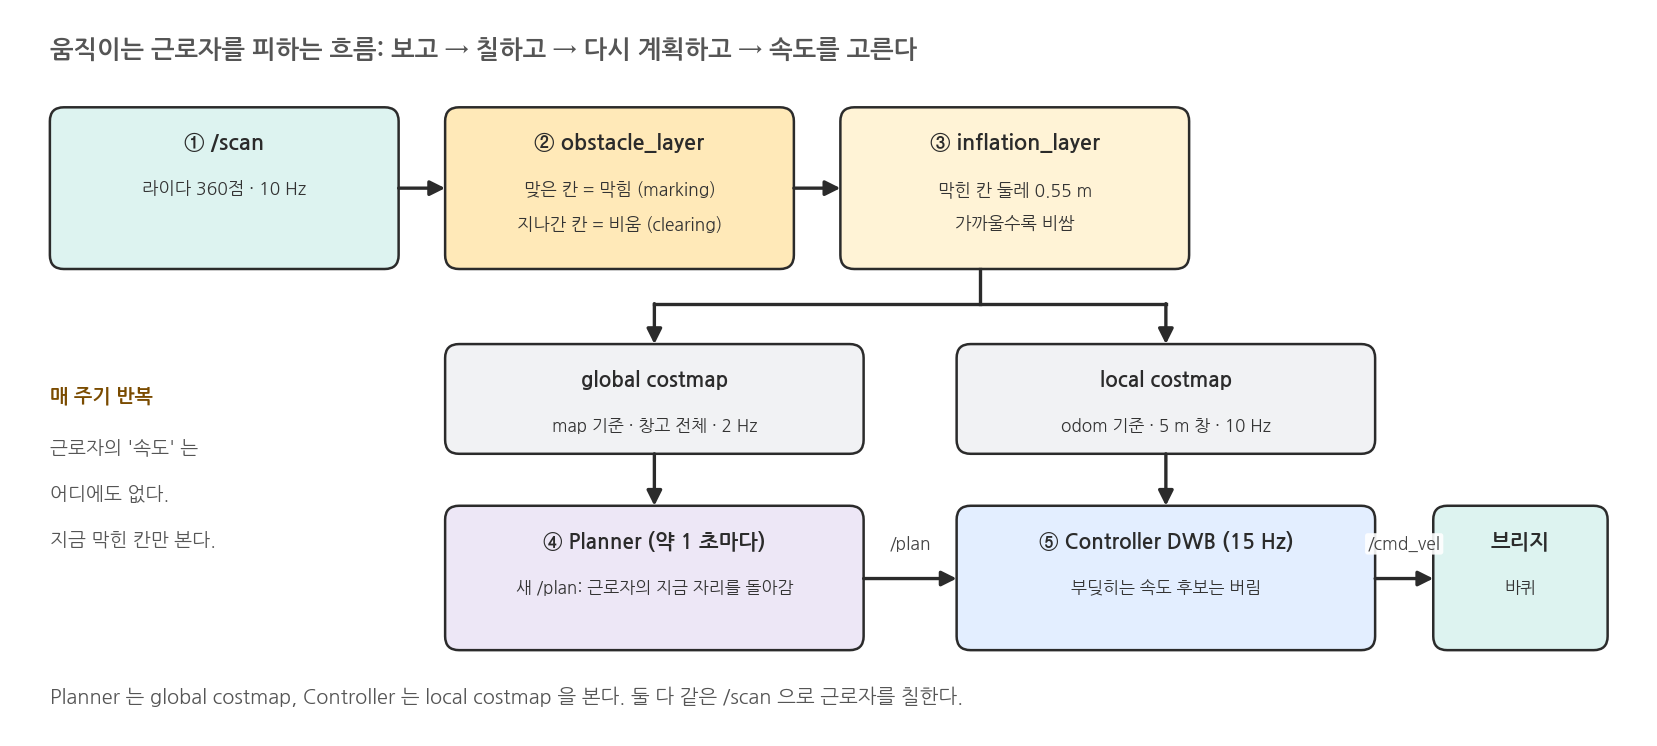
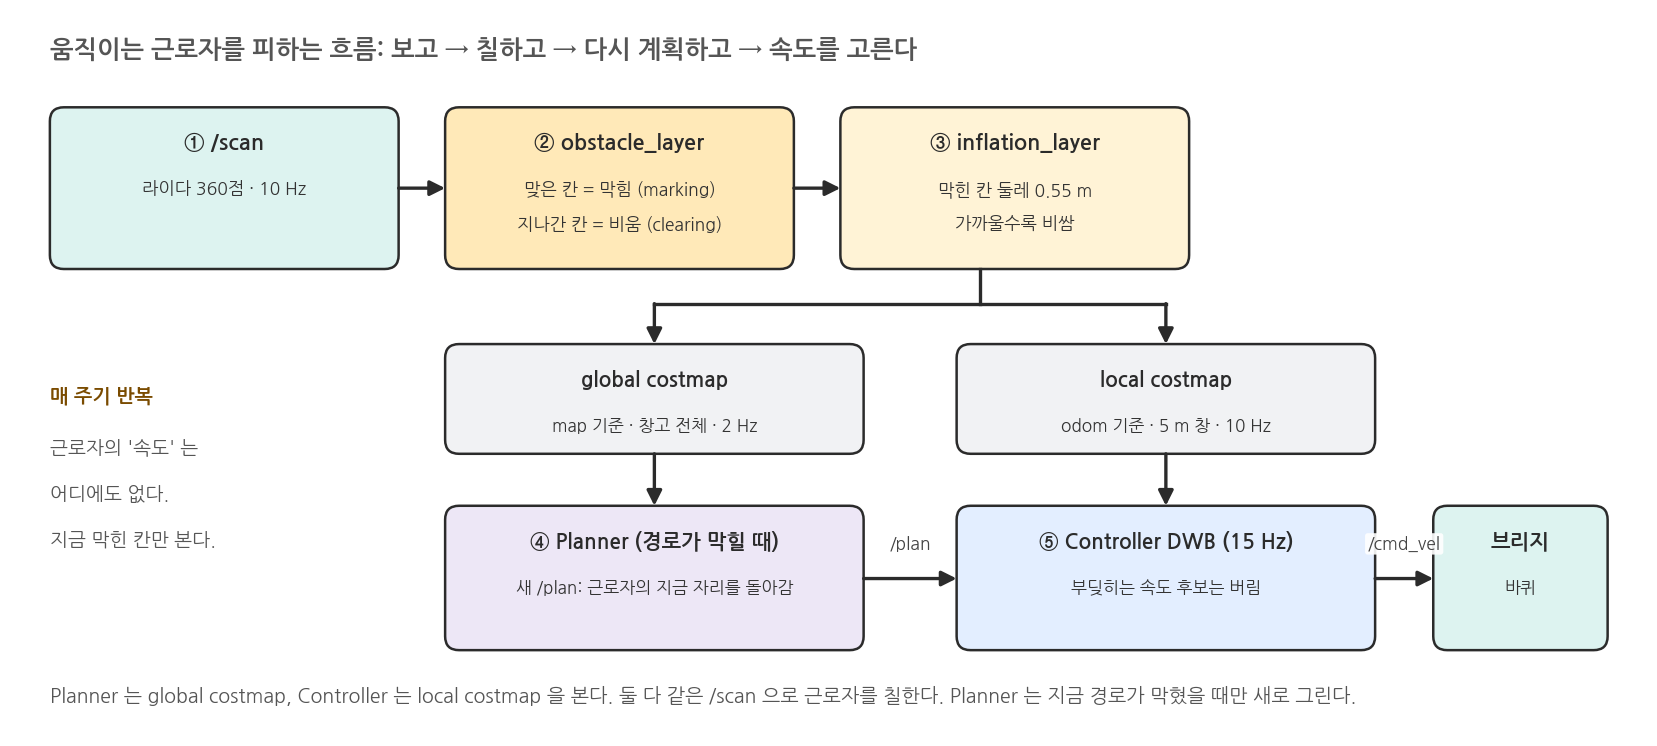
Nav2: replan only when the path is blocked (fixes left-right swings at the goal)
The default BT replans at 1 Hz; every new path resets the RotationShim's
goal-tolerance latch, and AMCL drifts a few cm while the robot turns in
place, so the robot left the 0.08 m tolerance and turned back toward the
goal point. bt_navigator now uses Nav2's
navigate_w_recovery_and_replanning_only_if_path_becomes_invalid.xml
(10 goals: 0 swings vs 2, longest settle 3.9 s vs 14.8 s; head-on passes
~4 cm closer).

Collision-avoidance page (lesson06) re-recorded with the new BT, and the
Navigation page speed graph redrawn from a new run.

Changed region(s): [[0.0308, 0.9249, 0.8002, 0.9558], [0.3078, 0.7091, 0.4925, 0.7399]]

diff --git a/docs/camp/draw_lesson06_figures.py b/docs/camp/draw_lesson06_figures.py
@@ -1,7 +1,8 @@
 """Figures for the lesson-06 Confluence page (Nav2 collision avoidance with a walking worker). Output: docs/camp/lesson06_*.png
 
-Run from the workspace root. Data: artifacts/dev/nav_crossing.pkl (close-up crossing run), nav_crossing_wide.pkl,
-nav_headon.pkl (docs/camp/nav_record.py) and screenshots in artifacts/dev/avoid_frames/.
+Run from the workspace root. Data: artifacts/dev/nav_crossing_v2.pkl, nav_headon_v2.pkl (docs/camp/nav_record.py, 2026-11-12, BT = replan only when
+the path becomes invalid), nav_crossing_wide.pkl (map for the scenario figure) and full-screen captures in
+artifacts/dev/avoid_frames_v2/ (MuJoCo | RViz close-up | RViz wide with the global costmap, one per sim second).
 """
 import pickle
 import sys
@@ -17,8 +18,10 @@ import numpy as np  # noqa: E402
 from PIL import Image  # noqa: E402
 
 RED, BLUE, GREEN, BROWN, GREY, ORANGE = "#C62828", "#1f4e79", "#2e7d32", "#7a4b00", "#9e9e9e", "#EF6C00"
-FR = Path("artifacts/dev/avoid_frames")
-PHASES = [(0.0, 6.0, "① 접근", "#E3F2FD"), (6.0, 8.8, "② 감지 · 우회", "#FFF3E0"), (8.8, 10.3, "③ 멈춤 · 대기", "#FFEBEE"), (10.3, 16.0, "④ 재개", "#E8F5E9")]
+FR = Path("artifacts/dev/avoid_frames_v2")
+MJ, RV, WIDE = (345, 200, 1195, 1000), (1830, 130, 2430, 1040), (2840, 380, 3440, 900)     # crop boxes
+PHASES = [(0.0, 6.6, "① 접근", "#E3F2FD"), (6.6, 8.9, "② 감지 · 우회", "#FFF3E0"), (8.9, 11.6, "③ 북쪽으로 · 제자리 회전", "#FFEBEE"), (11.6, 16.0, "④ 재개", "#E8F5E9")]
+PICKS = (6.0, 8.0, 10.0, 13.0)        # sim seconds of the four moments ①~④
 
 
 def load(name):
@@ -72,7 +75,7 @@ def flow():
     rbox(ax, 8.1, 2.4, 3.6, 0.95, "local costmap", ["odom 기준 · 5 m 창 · 10 Hz"], fc=C["grey"], tfs=10, fs=8.2)
     ax.plot([8.3, 8.3], [4.0, 3.7], color=INK, lw=1.6); ax.plot([5.5, 9.9], [3.7, 3.7], color=INK, lw=1.6)
     arrow(ax, (5.5, 3.7), (5.5, 3.35)); arrow(ax, (9.9, 3.7), (9.9, 3.35))
-    rbox(ax, 3.7, 0.7, 3.6, 1.25, "④ Planner (약 1 초마다)", ["새 /plan: 근로자의 지금 자리를 돌아감"], fc=C["purple"], tfs=10, fs=8.2)
+    rbox(ax, 3.7, 0.7, 3.6, 1.25, "④ Planner (경로가 막힐 때)", ["새 /plan: 근로자의 지금 자리를 돌아감"], fc=C["purple"], tfs=10, fs=8.2)
     rbox(ax, 8.1, 0.7, 3.6, 1.25, "⑤ Controller DWB (15 Hz)", ["부딪히는 속도 후보는 버림"], fc=C["blue"], tfs=10, fs=8.2)
     rbox(ax, 12.2, 0.7, 1.5, 1.25, "브리지", ["바퀴"], fc=C["teal"], tfs=10, fs=8.2)
     arrow(ax, (5.5, 2.4), (5.5, 1.95)); arrow(ax, (9.9, 2.4), (9.9, 1.95))
@@ -82,7 +85,7 @@ def flow():
     note(ax, 0.3, 2.45, "근로자의 '속도' 는", fs=9.2)
     note(ax, 0.3, 2.05, "어디에도 없다.", fs=9.2)
     note(ax, 0.3, 1.65, "지금 막힌 칸만 본다.", fs=9.2)
-    note(ax, 0.3, 0.3, "Planner 는 global costmap, Controller 는 local costmap 을 본다. 둘 다 같은 /scan 으로 근로자를 칠한다.", fs=9.6)
+    note(ax, 0.3, 0.3, "Planner 는 global costmap, Controller 는 local costmap 을 본다. 둘 다 같은 /scan 으로 근로자를 칠한다. Planner 는 지금 경로가 막혔을 때만 새로 그린다.", fs=9.4)
     save(fig, "lesson06_flow.png")
 
 
@@ -129,37 +132,37 @@ def rviz_displays():
 
 # ================================================================ 2. 실측
 def rviz_sequence():
-    frames = [("crossing_s09.png", "① 접근: 앞에 근로자(오른쪽 위 블롭) · 콘"), ("crossing_s13.png", "② 감지 · 우회: /plan 이 남쪽으로 휘고 로봇이 튼다"),
-              ("crossing_s15.png", "③ 멈춤 · 대기: 근로자가 막 앞을 지나간다"), ("crossing_s19.png", "④ 재개: 근로자 뒤로 지나 목표로")]
-    fig, axs = plt.subplots(2, 2, figsize=(14, 13.6), dpi=150)
-    for ax, (f, t) in zip(axs.flat, frames):
-        ax.imshow(Image.open(FR / f).crop((1470, 130, 2230, 866))); ax.axis("off"); ax.set_title(t, fontsize=12)
-    fig.suptitle("RViz2 (Global Costmap 끔): Local Costmap · Footprint · Global/Local Plan · DWB Trajectories · Lidar", fontsize=13, fontweight="bold", x=0.01, ha="left")
-    fig.tight_layout(rect=(0, 0, 1, 0.97))
+    frames = [("crossing_s06.png", "① 접근: 앞에 근로자 · 콘 (/plan 은 처음 그대로)"), ("crossing_s08.png", "② 감지 · 우회: 길이 막혀 /plan 이 남쪽으로 휜다"),
+              ("crossing_s10.png", "③ 근로자도 남쪽으로 → 북쪽 /plan, 제자리 회전"), ("crossing_s13.png", "④ 재개: 근로자 뒤(북쪽)로 지나 목표로")]
+    fig, axs = plt.subplots(1, 4, figsize=(14, 6.4), dpi=150)
+    for ax, (f, t) in zip(axs, frames):
+        ax.imshow(Image.open(FR / f).crop(RV)); ax.axis("off"); ax.set_title(t, fontsize=9.6)
+    fig.suptitle("RViz2 (Global Costmap 끔): Local Costmap · Footprint · Global/Local Plan · DWB Trajectories · Lidar", fontsize=12, fontweight="bold", x=0.01, ha="left")
+    fig.tight_layout(rect=(0, 0, 1, 0.95))
     save(fig, "lesson06_rviz_sequence.png")
 
 
 def mujoco_sequence():
-    frames = [("crossing_s09.png", "① 접근"), ("crossing_s13.png", "② 감지 · 우회"), ("crossing_s15.png", "③ 멈춤 · 대기"), ("crossing_s19.png", "④ 재개")]
-    fig, axs = plt.subplots(1, 4, figsize=(14, 4.4), dpi=150)
+    frames = [("crossing_s06.png", "① 접근"), ("crossing_s08.png", "② 감지 · 우회"), ("crossing_s10.png", "③ 북쪽으로 · 제자리 회전"), ("crossing_s13.png", "④ 재개")]
+    fig, axs = plt.subplots(1, 4, figsize=(14, 3.9), dpi=150)
     for ax, (f, t) in zip(axs, frames):
-        ax.imshow(Image.open(FR / f).crop((380, 330, 1000, 866))); ax.axis("off"); ax.set_title(t, fontsize=11)
+        ax.imshow(Image.open(FR / f).crop(MJ)); ax.axis("off"); ax.set_title(t, fontsize=11)
     fig.suptitle("같은 순간의 MuJoCo 창 (근로자가 오른쪽에서 통로를 가로지른다)", fontsize=12, fontweight="bold", x=0.01, ha="left")
     fig.tight_layout(rect=(0, 0, 1, 0.92))
     save(fig, "lesson06_mujoco_sequence.png")
 
 
 def wide_view():
-    fig, ax = plt.subplots(figsize=(14, 7.2), dpi=150)
-    ax.imshow(Image.open(FR / "wide_s10.png").crop((1470, 130, 2230, 866))); ax.axis("off")
-    ax.set_title("Global Costmap 을 켠 넓은 화면: 근로자 · 콘 · 선반 다리가 모두 막힘으로 칠해지고, 지나간 자리는 옅어진다", fontsize=11.5)
+    fig, ax = plt.subplots(figsize=(10, 9.4), dpi=150)
+    ax.imshow(Image.open(FR / "crossing_s10.png").crop(WIDE)); ax.axis("off")
+    ax.set_title("Global Costmap 을 켠 화면 (10 s): 근로자 · 콘 · 선반 다리가 모두 막힘으로 칠해진다\n초록 = 북쪽으로 바꾼 /plan", fontsize=11)
     fig.tight_layout()
     save(fig, "lesson06_rviz_wide.png")
 
 
 def local_snapshots():
-    d = load("nav_crossing")
-    picks = [4.5, 7.5, 9.0, 11.5]
+    d = load("nav_crossing_v2")
+    picks = PICKS
     fig, axs = plt.subplots(1, 4, figsize=(14, 4.4), dpi=150)
     for ax, ts, (a, b, name, _) in zip(axs, picks, [PHASES[0], PHASES[1], PHASES[2], PHASES[3]]):
         t = d["t0"] + ts
@@ -168,7 +171,7 @@ def local_snapshots():
         r = at(d, "tr", g["t"]); w = worker(d, g["t"])
         footprint(ax, r[1], r[2], r[3], fc="none", ec=RED, lw=1.8)
         ax.add_patch(Circle(w, 0.22, fc="none", ec=ORANGE, lw=2.0, ls="--", zorder=6))
-        pl = min(d["plans"], key=lambda p: abs(p["t"] - g["t"]))
+        pl = [p for p in d["plans"] if p["t"] <= g["t"]][-1]          # the /plan in force at that moment
         ax.plot(pl["xy"][:, 0], pl["xy"][:, 1], color="#2E7D32", lw=1.8)
         lp = min(d["local_plans"], key=lambda p: abs(p["t"] - g["t"]))
         if len(lp["xy"]):
@@ -183,14 +186,15 @@ def local_snapshots():
 
 
 def timeline():
-    d = load("nav_crossing")
+    d = load("nav_crossing_v2")
     t0 = d["t0"]
     tr, od = d["tr"], d["od"]
     m = (tr[:, 0] >= t0 + 0.1) & (tr[:, 0] <= t0 + 16)
     t = tr[m, 0] - t0
     dist = np.array([np.hypot(*(r[1:3] - worker(d, r[0]))) for r in tr[m]])
     mo = (od[:, 0] >= t0 - 0.5) & (od[:, 0] <= t0 + 16)
-    dev = np.array([[p["t"] - t0, p["xy"][:, 1].min()] for p in d["plans"] if p["t"] - t0 <= 16])
+    dev = np.array([[p["t"] - t0, p["xy"][np.argmax(abs(p["xy"][:, 1])), 1]] for p in d["plans"] if p["t"] - t0 <= 16])
+    dev = np.vstack([dev, [16, dev[-1, 1]]])
     fig, axs = plt.subplots(3, 1, figsize=(14, 7.6), dpi=150, sharex=True)
     for ax in axs:
         for a, b, name, col in PHASES:
@@ -203,16 +207,19 @@ def timeline():
     i = np.argmin(dist); axs[0].annotate(f"최소 {dist[i]:.2f} m", (t[i], dist[i]), xytext=(t[i] + 1.2, dist[i] + 0.9), fontsize=9.5, arrowprops=dict(arrowstyle="-|>"))
     axs[1].plot(od[mo, 0] - t0, od[mo, 4], color=BLUE, lw=1.8, label="v [m/s]"); axs[1].plot(od[mo, 0] - t0, od[mo, 5], color=BROWN, lw=1.4, label="w [rad/s]")
     axs[1].set_ylabel("/odom 속도"); axs[1].legend(loc="lower left", fontsize=9)
-    axs[2].step(dev[:, 0], dev[:, 1], where="post", color=GREEN, lw=2); axs[2].set_ylabel("/plan 의 최소 y [m]")
+    axs[2].step(dev[:, 0], dev[:, 1], where="post", color=GREEN, lw=2); axs[2].set_ylabel("/plan 이 휜 y [m]")
+    axs[2].plot(dev[:-1, 0], dev[:-1, 1], "o", color=GREEN, ms=6); axs[2].set_ylim(-1.2, 0.8)
+    axs[1].text(9.1, 0.42, "v = 0, w = 0.56: 제자리 회전", fontsize=9)
     axs[2].set_xlabel("목표를 보낸 뒤 시뮬레이션 시각 [s]")
-    axs[2].text(6.8, -0.85, "근로자를 남쪽으로 돌아가려다", fontsize=9); axs[2].text(9.0, -0.35, "근로자도 남쪽으로 → 길이 막혀 대기", fontsize=9)
+    axs[2].text(0.3, 0.25, "점 = 새 /plan (0 s 다음은 길이 막힌 6.6 ~ 8.7 s 에만)", fontsize=9)
+    axs[2].text(4.2, -0.95, "근로자를 남쪽으로 돌아가려다", fontsize=9); axs[2].text(9.0, 0.45, "근로자도 남쪽으로 → 북쪽 경로로 바꿈", fontsize=9)
     fig.suptitle("실측 타임라인 (crossing): 거리 · 속도 · 경로가 휘는 정도", fontsize=12, fontweight="bold", x=0.01, ha="left")
     fig.tight_layout(rect=(0, 0, 1, 0.96))
     save(fig, "lesson06_timeline.png")
 
 
 def paths():
-    d = load("nav_crossing")
+    d = load("nav_crossing_v2")
     t0 = d["t0"]
     fig, ax = plt.subplots(figsize=(14, 6.6), dpi=150)
     show_cost(ax, min(d["global_series"], key=lambda g: abs(g["t"] - t0)))     # before the worker reaches the aisle
@@ -220,28 +227,27 @@ def paths():
     for p in d["plans"]:
         s = p["t"] - t0
         if 5.5 <= s <= 12:
-            ax.plot(p["xy"][:, 0], p["xy"][:, 1], color=cm((s - 5.5) / 6.5), lw=1.2, alpha=0.9)
+            ax.plot(p["xy"][:, 0], p["xy"][:, 1], color=cm((s - 5.5) / 6.5), lw=1.8, alpha=0.95, label=f"/plan {s:.1f} s")
     tr = d["tr"]; m = (tr[:, 0] >= t0) & (tr[:, 0] <= t0 + 30)
     ax.plot(tr[m, 1], tr[m, 2], color=RED, lw=2.4, label="로봇이 실제로 간 길")
     ma = (d["at"] >= t0) & (d["at"] <= t0 + 14)
     ax.plot(d["ap"][ma, 0], d["ap"][ma, 1], color=ORANGE, lw=2.4, ls="--", label="근로자 (0 ~ 14 s)")
-    for k, s in enumerate((4.5, 7.5, 9.0, 11.5)):
+    for k, s in enumerate(PICKS):
         r = at(d, "tr", t0 + s); w = worker(d, t0 + s); tag = "①②③④"[k]
         footprint(ax, r[1], r[2], r[3], fc="none", ec=RED, lw=1.0)
         ax.add_patch(Circle(w, 0.13, fc=ORANGE, ec="white", alpha=0.9, zorder=6)); ax.text(w[0] + 0.2, w[1] - 0.08, f"{tag} {s:.1f} s", fontsize=9, color=BROWN, zorder=7)
     ax.set_xlim(-0.8, 6.8); ax.set_ylim(-3.2, 3.2)
-    sm = plt.cm.ScalarMappable(cmap=cm, norm=plt.Normalize(5.5, 12)); cb = fig.colorbar(sm, ax=ax, fraction=0.025, pad=0.01); cb.set_label("/plan 시각 [s]")
     ax.legend(loc="upper left", fontsize=9)
-    ax.set_title("위에서 본 궤적: /plan 은 근로자의 '지금' 자리를 피해 매번 새로 그려진다 (색 = 시각, 빨간 사각형 = ①~④ 시각의 로봇)", fontsize=11)
+    ax.set_title("위에서 본 궤적: /plan 은 길이 막힐 때만 근로자의 '지금' 자리를 피해 새로 그려진다 (6.6 ~ 8.7 s 에 4 번, 빨간 사각형 = ①~④ 시각의 로봇)", fontsize=11)
     fig.tight_layout()
     save(fig, "lesson06_paths.png")
 
 
 def headon():
-    d = load("nav_headon")
+    d = load("nav_headon_v2")
     t0 = d["t0"]
     tr = d["tr"]
-    m = (tr[:, 0] >= t0 - 0.5) & (tr[:, 0] <= t0 + 14)
+    m = (tr[:, 0] >= t0 + 0.3) & (tr[:, 0] <= t0 + 14)        # from 0.3 s: the worker is teleported to its start at 0 s
     t = tr[m, 0] - t0
     dist = np.array([np.hypot(*(r[1:3] - worker(d, r[0]))) for r in tr[m]])
     fig = plt.figure(figsize=(14, 5.2), dpi=150)
@@ -265,8 +271,8 @@ def headon():
 
 def headon_mujoco():
     fig, axs = plt.subplots(1, 3, figsize=(14, 4.6), dpi=150)
-    for ax, f, t in zip(axs, ("headon_s08.png", "headon_s09.png", "headon_s10.png"), ("다가온다", "겹친다 (충돌)", "지나간 뒤 비켜 선 로봇")):
-        ax.imshow(Image.open(FR / f).crop((380, 330, 1000, 866))); ax.axis("off"); ax.set_title(t, fontsize=11)
+    for ax, f, t in zip(axs, ("headon_s07.png", "headon_s08.png", "headon_s11.png"), ("다가온다 (7 s)", "겹친다 (8 s, 충돌)", "지나간 뒤 비켜 선 로봇 (11 s)")):
+        ax.imshow(Image.open(FR / f).crop(MJ)); ax.axis("off"); ax.set_title(t, fontsize=11)
     fig.suptitle("같은 순간의 MuJoCo 창 (headon)", fontsize=12, fontweight="bold", x=0.01, ha="left")
     fig.tight_layout(rect=(0, 0, 1, 0.92))
     save(fig, "lesson06_headon_mujoco.png")
@@ -277,7 +283,7 @@ def why_late():
     note(ax, 0.3, 4.5, "왜 마주 오는 사람은 늦게 피하나: Nav2 기본 구성은 '지금 막힌 칸' 만 본다", bold=True, fs=12)
     tiles(ax, [("속도 예측 없음", ["costmap 에는 위치만 있고 속도가 없다", "Planner 는 사람이 '지금' 있는 자리를 피한다", "사람이 다가오면 그 자리가 계속 다가온다"], C["red"]),
                ("가까워져야 반응", ["DWB 는 1.7 s 앞만 굴려 본다 (0.5 m 남짓)", "inflation 0.55 m 안에 들어와야 비싸진다", "마주 오면 1.5 m 에서 반응 → 이미 늦음"], C["orange"]),
-               ("가로지르면 괜찮았다", ["사람이 옆으로 빠져 나가 자리가 비워진다", "로봇은 멈춰 기다렸다가 뒤로 지나감", "최소 거리 1.16 m"], C["green"])],
+               ("가로지르면 괜찮았다", ["사람이 옆으로 빠져 나가 자리가 비워진다", "로봇은 제자리에서 돌아 근로자 뒤로 지나감", "최소 거리 1.00 m"], C["green"])],
           cols=3, y_top=3.9, gap=0.3, h=2.1, tfs=11, fs=8.8)
     note(ax, 0.3, 1.2, "보완: 속도 낮추기 · inflation 키우기 · Collision Monitor (가까우면 강제 감속/정지) · 사람 추적 + 예측 레이어 · MPPI 컨트롤러.", fs=9.6)
     note(ax, 0.3, 0.6, "실제 현장 로봇은 여기에 안전 인증 센서(안전 스캐너)의 보호 영역을 따로 둔다.", fs=9.6)
@@ -294,7 +300,7 @@ def params():
                ("controller (DWB)", ["controller_frequency: 15.0", "sim_time: 1.7", "ObstacleFootprint critic", "max_vel_x: 0.3"], C["blue"])],
           cols=4, y_top=4.1, gap=0.25, h=2.55, tfs=10.8, fs=8.5)
     note(ax, 0.3, 0.9, "global_costmap 도 같은 obstacle_layer 를 가진다 → Planner 가 근로자를 돌아가는 경로를 그릴 수 있다.", fs=9.6)
-    note(ax, 0.3, 0.4, "파일: src/mobile_openarm_navigation/config/nav2.yaml · 표시: config/navigation.rviz", fs=9.6)
+    note(ax, 0.3, 0.4, "bt_navigator: 경로가 막힐 때만 다시 계획 (navigation.launch.py 가 BT 파일을 고른다) · 표시: config/navigation.rviz", fs=9.6)
     save(fig, "lesson06_params.png")
 
 

diff --git a/docs/camp/draw_lesson05_figures.py b/docs/camp/draw_lesson05_figures.py
@@ -297,11 +297,13 @@ def local_costmap():
 
 
 def speed():
-    # re-recorded 2026-10-02 with the RotationShim controller (goal 1.2 -3.6 0, then /goal_pose (0.02, 0.02, 0) = RViz 2D Goal Pose)
-    d = pickle.load(open("artifacts/dev/nav_run_shim.pkl", "rb"))
+    # re-recorded 2026-11-12: RotationShim + BT that replans only when the path is blocked (goal 1.2 -3.6 0, then
+    # /goal_pose (0.02, 0.02, 0) = RViz 2D Goal Pose). The 2026-10-02 run (nav_run_shim.pkl, 1 Hz replanning) swung left-right at the 2nd goal.
+    d = pickle.load(open("artifacts/dev/nav_run_bt2.pkl", "rb"))
     od = np.array(d["odom"]); segs = segments(d)
     t0 = segs[0][0]["t"] - 1
-    m = (od[:, 0] >= t0) & (od[:, 0] <= segs[-1][-1]["t"] + 5)
+    moving = od[(abs(od[:, 4]) > 0.01) | (abs(od[:, 5]) > 0.01), 0]
+    m = (od[:, 0] >= t0) & (od[:, 0] <= moving[-1] + 3)          # until the robot stops at the 2nd goal (one /plan per goal now)
     fig, ax = plt.subplots(figsize=(14, 3.8), dpi=150)
     ax.plot(od[m, 0] - t0, od[m, 4], color=BLUE, lw=1.6, label="v  (/odom linear.x) [m/s]")
     ax.plot(od[m, 0] - t0, od[m, 5], color=BROWN, lw=1.2, alpha=0.8, label="w  (/odom angular.z) [rad/s]")
@@ -311,7 +313,7 @@ def speed():
         ax.axvline(s[0]["t"] - t0, color=GREEN, lw=1.2, ls="--")
     ax.set_xlabel("시뮬레이션 시각 [s]"); ax.grid(alpha=0.3); ax.legend(loc="lower center", bbox_to_anchor=(0.45, 0.03), fontsize=9)
     ax.annotate("제자리 회전\n(0.6 rad/s)", (2.5, -0.56), (5.0, -0.45), fontsize=9, color=BROWN, arrowprops=dict(arrowstyle="-|>", color=BROWN))
-    ax.text(28.3, 0.47, "42 ~ 59 s: 목표 방향을 맞추며 좌우로 오간다 →", fontsize=8.8, color="#555")
+    ax.annotate("멈춰서 목표 방향(0°)으로 한 번에 회전", (40.8, -0.56), (27.0, -0.48), fontsize=9, color=BROWN, arrowprops=dict(arrowstyle="-|>", color=BROWN))
     ax.set_title("Controller 가 낸 속도: 제자리에서 방향 맞추기 → 0.3 m/s 순항 → 감속 → 멈춰서 목표 방향으로 회전  (초록 점선 = 새 목표)", fontsize=11)
     fig.tight_layout()
     save(fig, "lesson05_speed.png")

diff --git a/src/mobile_openarm_navigation/launch/navigation.launch.py b/src/mobile_openarm_navigation/launch/navigation.launch.py
@@ -62,6 +62,11 @@ def setup(context):
                 ]
             )
             lifecycle += ["map_server", "amcl"]
+        # Replan only when the path becomes invalid (blocked) instead of every second. Each new path resets the
+        # RotationShim's "inside the goal tolerance" latch; with AMCL drifting a few cm while the robot turns in place,
+        # the robot then fell out of the tolerance and turned back toward the goal point (left-right swings at the goal).
+        bt_xml = str(Path(get_package_share_directory("nav2_bt_navigator"))
+                     / "behavior_trees/navigate_w_recovery_and_replanning_only_if_path_becomes_invalid.xml")
         for pkg, exe in [
             ("nav2_controller", "controller_server"),
             ("nav2_planner", "planner_server"),
@@ -74,7 +79,7 @@ def setup(context):
                     package=pkg,
                     executable=exe,
                     name=exe,
-                    parameters=[params],
+                    parameters=[params, {"default_nav_to_pose_bt_xml": bt_xml}] if exe == "bt_navigator" else [params],
                     output="screen",
                 )
             )

diff --git a/docs/lecture/NEXT.md b/docs/lecture/NEXT.md
@@ -1,6 +1,24 @@
 # 다음 세션 재개 안내
 
-마지막 갱신: 2026-11-12 오후 (⑭ Final Mission 코드 · 남은 프로세스 검사). PC를 다시 켠 뒤 이 문서만 보고 이어갈 수 있도록 쓴다.
+마지막 갱신: 2026-11-12 밤 (⑥ 목표에서 좌우로 오가는 현상 해결: BT 교체). PC를 다시 켠 뒤 이 문서만 보고 이어갈 수 있도록 쓴다.
+
+## 0-000000000000000000000000000. 2026-11-12 밤: ⑥ 목표에서 좌우로 오가는 현상 — BT 교체 — 다음 세션은 여기부터
+
+**원인 (재현 실험으로 확인)**
+- 기본 BT 는 1 Hz 로 다시 계획 → 새 경로마다 RotationShim 의 `setPlan()` 이 '목표 허용 안' 래치(`position_goal_checker_->reset()`)를 지움.
+- 로봇이 목표 0.07 ~ 0.16 m 앞에서 제자리 회전하는 동안 AMCL 추정이 최대 7 cm 흔들림 (`update_min_a` 0.05) → 허용 0.08 m 밖으로 나감 → shim 이 다시 목표 '점' 쪽으로 돌림 → 좌우 왕복 (최대 14.8 s).
+
+**조치**
+- `navigation.launch.py`: bt_navigator 에 `default_nav_to_pose_bt_xml` = nav2_bt_navigator 의 `navigate_w_recovery_and_replanning_only_if_path_becomes_invalid.xml` (경로가 막힐 때만 다시 계획, 복구 동작은 유지).
+- 실험 (목표 10 개, scratchpad 의 osc_exp.py · osc_ana.py, 데이터 artifacts/dev/osc/): 옛 BT 2/10 왕복 · 최장 14.8 s → 새 BT 0/10 · 최장 3.9 s. '0.3 m 이동마다' BT 는 38 ~ 40 번 왕복이라 버림.
+- 대가: headon 최소 거리 약 4 cm 줄어듦 (옛 0.22 · 0.25 · 0.23 → 0.18 · 0.20 · 0.20, 페이지 촬영 판 0.15 m). crossing 은 비슷 (1.00 m).
+
+**페이지**
+- '충돌 회피' 3701145683 v3: crossing · headon 다시 기록 (`artifacts/dev/nav_crossing_v2.pkl` · `nav_headon_v2.pkl`, 화면 `artifacts/dev/avoid_frames_v2/` = MuJoCo | RViz 근접 | RViz global costmap, 시뮬 1 초마다 `import -window root`). 단계 이름 ③ '멈춤 · 대기' → '북쪽으로 · 제자리 회전' (새 BT 에선 /plan 이 6.6 ~ 8.7 s 에 4 번만: 남쪽으로 휘다 근로자도 남쪽 → 북쪽 경로). '약 1 초마다' 문구 → '경로가 막힐 때'. 코드 절 'navigation.launch.py 발췌' · 해 볼 것 한 줄 추가. h3 'Global Costmap 을 켠 넓은 화면' → '… 켠 화면'.
+- 'ROS2 Navigation' 3701866498: `lesson05_speed.png` 만 다시 찍어 첨부 갱신 (`nav_run_bt2.pkl`, 두 번째 목표에서 한 번에 회전). 본문 그대로.
+- 촬영 도구는 scratchpad 에만 (avoid_run.sh · frame_cap.py · rviz_close/wide.rviz) — 다시 필요하면 위 설명대로 재작성.
+
+**다음 (사용자 결정 대기)**: 커밋 · push (작업 트리: launch · 그림 스크립트 · md · png 미커밋, 59a5415 · d3f5e8c 미 push), AMCL 회전 중 흔들림 자체(라이다 프레임 오프셋?) 조사 여부, LLM 모델, ① 옛 그림 정리, 남은 `lecture-2026-11` 언급 정리.
 
 ## 0-00000000000000000000000000. 2026-11-12 오후: ⑭ Final Mission 코드 · 남은 프로세스 검사 — 다음 세션은 여기부터
 
